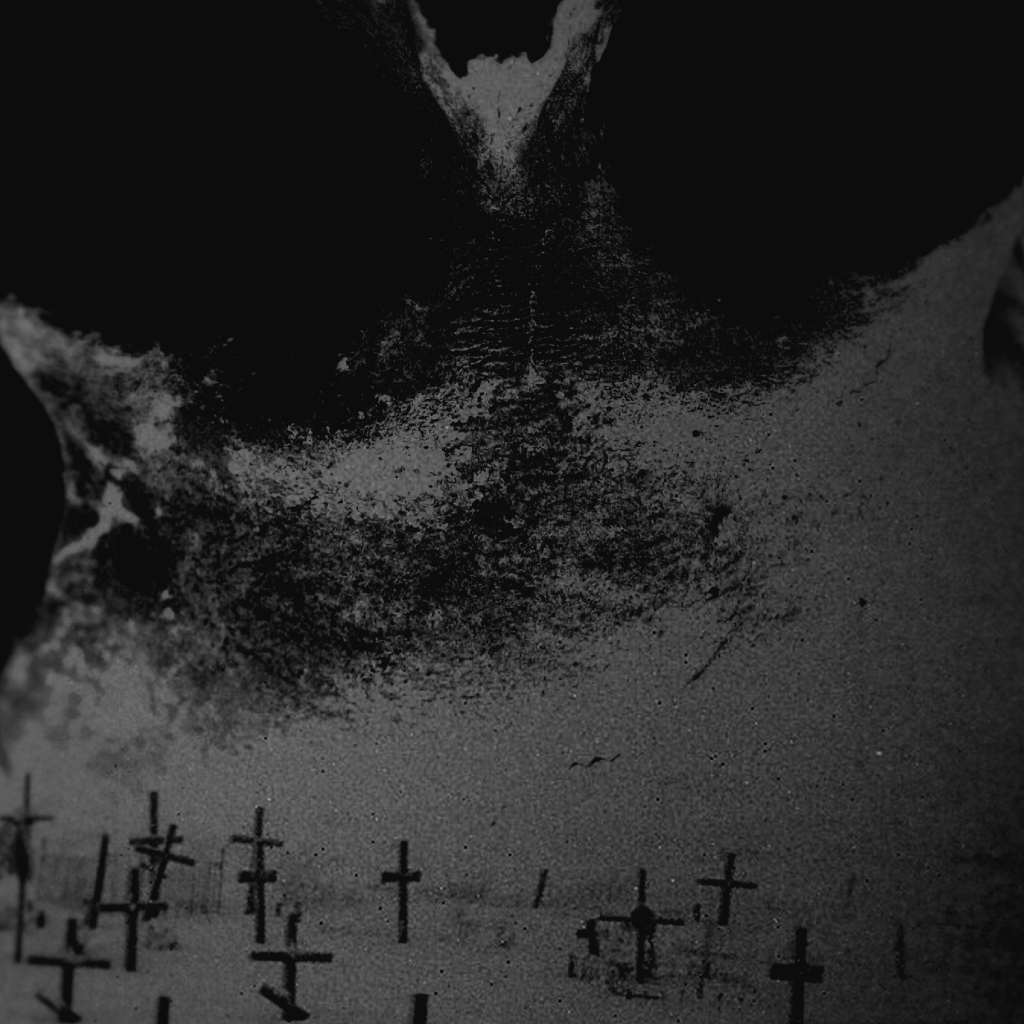
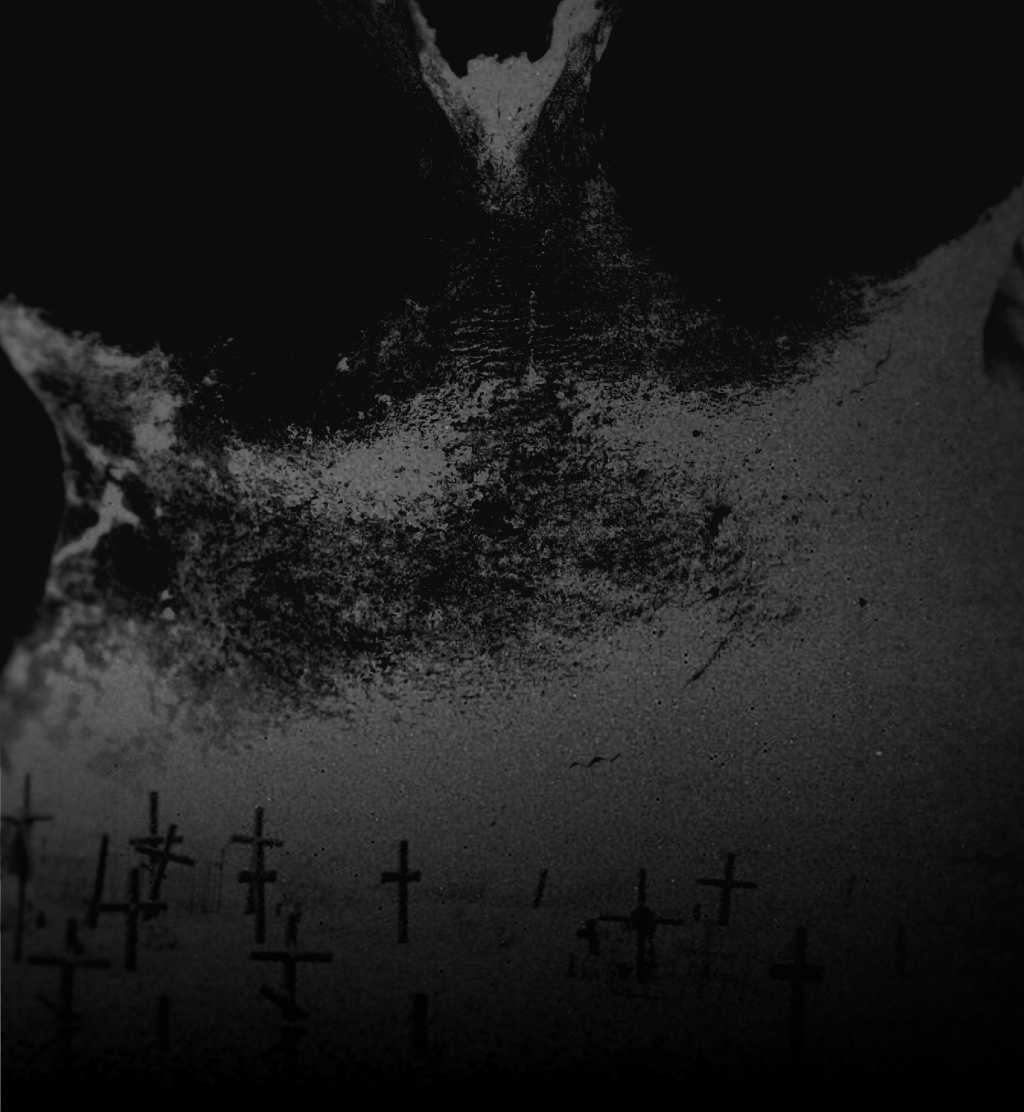
Uploaded new version of Castrensis site

diff --git a/castrensis/index.html b/castrensis/index.html
@@ -13,45 +13,74 @@
 			}
 		</script>
 	</head>
-	<body data-stellar-background-ratio="0.05" onLoad="initStellar()">
-		<div id="container">
-			<div class="section dark">
-				<div class="banner">
+	<body data-stellar-background-ratio="0.1" onLoad="initStellar()">
+	<div id="container">
+		<div class="section dark">
+			<div class="banner">
+			</div>
+		</div>
+
+		<div class="section separator">
+		</div>
+
+		<div class="section dark">
+			<div class="content">
+				<h1>17 / 11</h1>
+				<p>Lorem ipsum dolor sit amet, consectetur adipiscing elit. Suspendisse pharetra mattis molestie. Aenean faucibus venenatis metus, ac viverra neque dignissim eu. Pellentesque venenatis sed turpis ac luctus. Vestibulum urna metus, ornare at consectetur sit amet, feugiat eget mi. Praesent sit amet euismod turpis. Nulla a diam non neque accumsan luctus vitae sit amet arcu. Vestibulum quis ullamcorper est. Praesent ut vehicula nisi.</p>
+
+				<p>In odio justo, facilisis malesuada blandit et, placerat at orci. Vivamus sed pellentesque quam, non pharetra enim. Praesent eget varius urna, quis cursus ligula. Morbi nec sollicitudin massa, vel porta metus. Suspendisse volutpat massa ipsum, vel auctor neque eleifend ut. Class aptent taciti sociosqu ad litora torquent per conubia nostra, per inceptos himenaeos. Duis nibh magna, finibus a eleifend non, placerat ac dolor. Proin metus lectus, viverra at fringilla eu, sollicitudin in nunc. Quisque sodales quis risus eget ultrices.</p>
+			</div>
+		</div>
+
+		<div class="section separator">
+		</div>
+
+		<div class="section dark">
+			<div class="content">
+				<h2>MUSIC</h2>
+
+				<h3>hierarchies</h3>
+				<div class="bandcamp">
+					<iframe style="border: 0; width: 100%; height: 120px;" src="https://bandcamp.com/EmbeddedPlayer/album=82534722/size=large/bgcol=333333/linkcol=ffffff/tracklist=false/artwork=small/transparent=true/" seamless><a href="http://dreamcatalogue.bandcamp.com/album/enjoy-your-flight">フライトを楽しむ (Enjoy Your Flight!) by 日本航空株式会社 ✈ Japan Airlines</a>
+					</iframe>
 				</div>
-			</div>
 
-			<div class="section separator">
-			</div>
+				<h3>brutal discipline</h3>
+				<div class="bandcamp">
+					<iframe style="border: 0; width: 100%; height: 120px;" src="https://bandcamp.com/EmbeddedPlayer/album=760518394/size=large/bgcol=333333/linkcol=ffffff/tracklist=false/artwork=small/transparent=true/" seamless><a href="http://castrensisdm.bandcamp.com/album/brutal-discipline">Brutal Discipline by Castrensis</a>
+					</iframe>
+				</div>
 
-			<div class="section dark">
-				<div class="content">
-					<h1>MUSIC</h1>
-
+				<!--
 					<div class="left-box">
-						<h2>hierarchies</h2>
+						<h3>hierarchies</h3>
 
 						<div class="album-box">
-							<iframe style="border: 0; width: 100%; height: 439px;" src="https://bandcamp.com/EmbeddedPlayer/album=82534722/size=large/bgcol=333333/linkcol=ffffff/artwork=small/transparent=true/" seamless><a href="http://dreamcatalogue.bandcamp.com/album/enjoy-your-flight">フライトを楽しむ (Enjoy Your Flight!) by 日本航空株式会社 ✈ Japan Airlines</a></iframe>
+							<iframe style="border: 0; width: 100%; height: 500px;" src="https://bandcamp.com/EmbeddedPlayer/album=82534722/size=large/bgcol=333333/linkcol=e32c14/tracklist=false/transparent=true/" seamless>
+							<a href="http://dreamcatalogue.bandcamp.com/album/enjoy-your-flight">フライトを楽しむ (Enjoy Your Flight!) by 日本航空株式会社 ✈ Japan Airlines</a>
+							</iframe>
 						</div>
 					</div>
 
 					<div class="right-box">
-						<h2>brutal discipline</h2>
+						<h3>brutal discipline</h3>
 
 						<div class="album-box">
-							<iframe style="border: 0; width: 100%; height: 439px;" src="https://bandcamp.com/EmbeddedPlayer/album=760518394/size=large/bgcol=333333/linkcol=ffffff/artwork=small/transparent=true/" seamless><a href="http://castrensisdm.bandcamp.com/album/brutal-discipline">Brutal Discipline by Castrensis</a>
+							<iframe style="border: 0; width: 100%; height: 500px;" src="https://bandcamp.com/EmbeddedPlayer/album=760518394/size=large/bgcol=333333/linkcol=ffffff/tracklist=false/transparent=true/" seamless>
+						<a href="http://castrensisdm.bandcamp.com/album/brutal-discipline">Brutal Discipline by Castrensis</a>
 							</iframe>
 						</div>
 					</div>
-				</div>
+				-->
 			</div>
+		</div>
 
 			<div class="section separator">
 			</div>
 
 			<div class="section dark">
 				<div class="content">
-					<h1>SHOWS</h1>
+					<h2>SHOWS</h2>
 
 					<div class="left-box">
 						<ul>
@@ -61,7 +90,7 @@
 							<li>SEPTEMBER 17</li>
 						</ul>
 					</div>
-					
+
 					<div class="right-box">
 						<ul>
 							<li>PUMPEHUSET</li>
@@ -78,7 +107,7 @@
 
 			<div class="section dark">
 				<div class="content">
-					<h1>CONTACT</h1>
+					<h2>CONTACT</h2>
 
 					<div class="left-box">
 						<ul>
@@ -91,7 +120,7 @@
 					<div class="right-box">
 						<ul>
 							<li><a href="mailto:castrensisdm@gmail.com">castrensisdm@gmail.com</a></li>
-							<li><a href="http://facebook.com/Castrensis">facebook.com/castrensis</<></li>
+							<li><a href="http://facebook.com/Castrensis">facebook.com/castrensis</a></li>
 							<li><a href="http://soundcloud.com/castrensis">soundcloud.com/castrensis</a></li>
 						</ul>
 					</div>

diff --git a/castrensis/css/style.css b/castrensis/css/style.css
@@ -4,8 +4,9 @@ body, div, p, a, h1, h2, h3, h4, h5, ul {
 }
 
 body {
-	background-color: #0c0c0c;
-	background-image: url("../img/bg.png");
+	background-color: #000000;
+	background-image: url("../img/bg2.png");
+	background-repeat: no-repeat;
 	background-size: cover;
 	background-attachment: fixed;
 }
@@ -40,6 +41,10 @@ div .separator {
 	height: 250px;
 	border-top: 2px solid rgba(255, 255, 255, 0.3);
 	border-bottom: 2px solid rgba(255, 255, 255, 0.3);
+	/*
+	background-image: url("../img/bg2.png");
+	background-size: cover;
+	*/
 }
 
 div .content {
@@ -62,6 +67,13 @@ div .content ul {
 	padding: 0px 10px 0px 10px;
 }
 
+div .content p {
+	text-align: justify;
+	text-indent: 50px;
+	padding: 0px 10px 0px 10px;
+	margin-bottom: 15px;
+}
+
 div .left-box {
 	width: 50%;
 	float: left;
@@ -78,6 +90,13 @@ div .right-box {
 
 h1 {
 	color: #c2c2c2;
+	font-size: 72px;
+	font-weight: normal;
+	text-align: center;
+}
+
+h2 {
+	color: #c2c2c2;
 	font-size: 48px;
 	letter-spacing: 2px;
 	font-weight: normal;
@@ -86,7 +105,7 @@ h1 {
 	margin-bottom: 30px;
 }
 
-h2 {
+h3 {
 	color: #949494;
 	letter-spacing: 3px;
 	font-size: 32px;
@@ -97,4 +116,9 @@ h2 {
 
 div .album-box {
 	padding: 0px 10px 0px 10px;
+}
+
+div .bandcamp {
+	padding: 0px 100px 0px 100px;
+	margin-bottom: 20px;
 }
